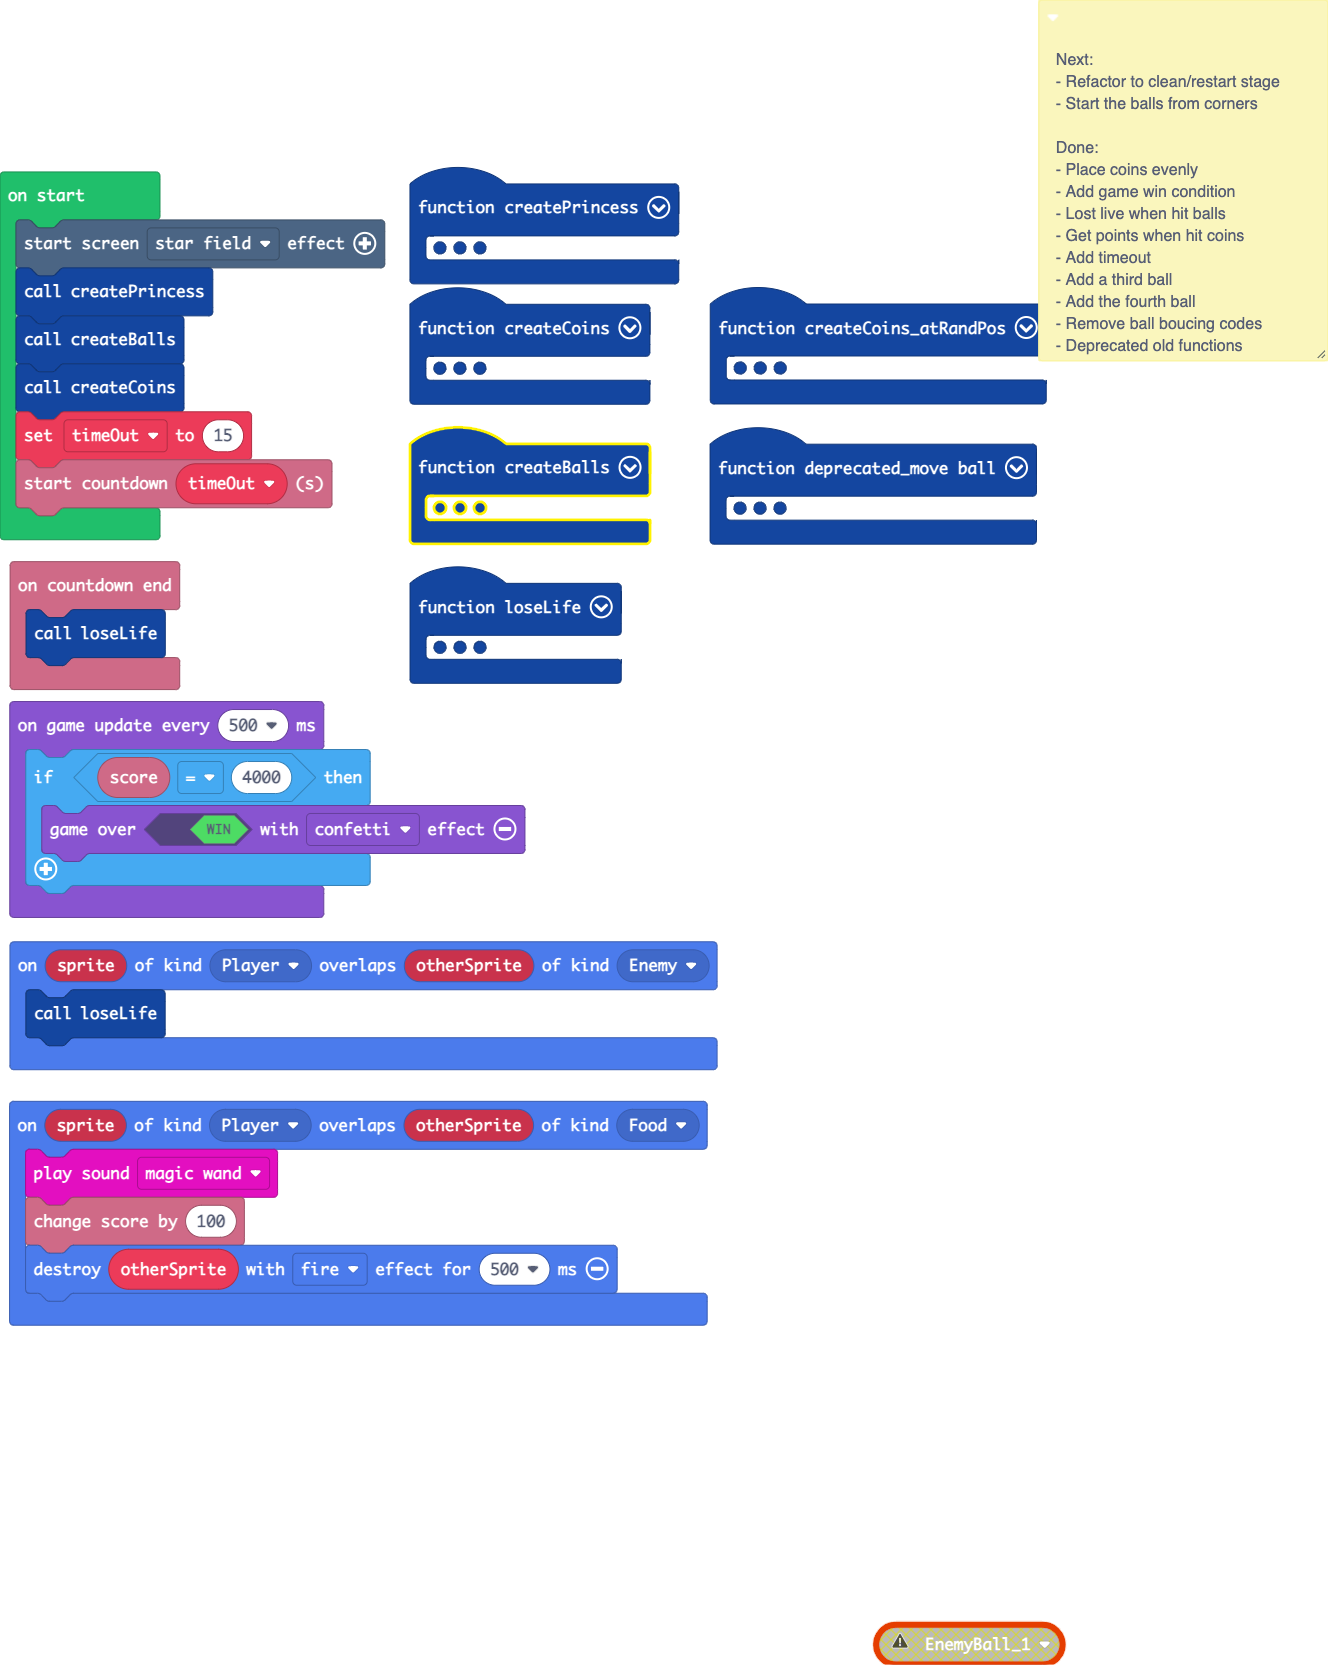
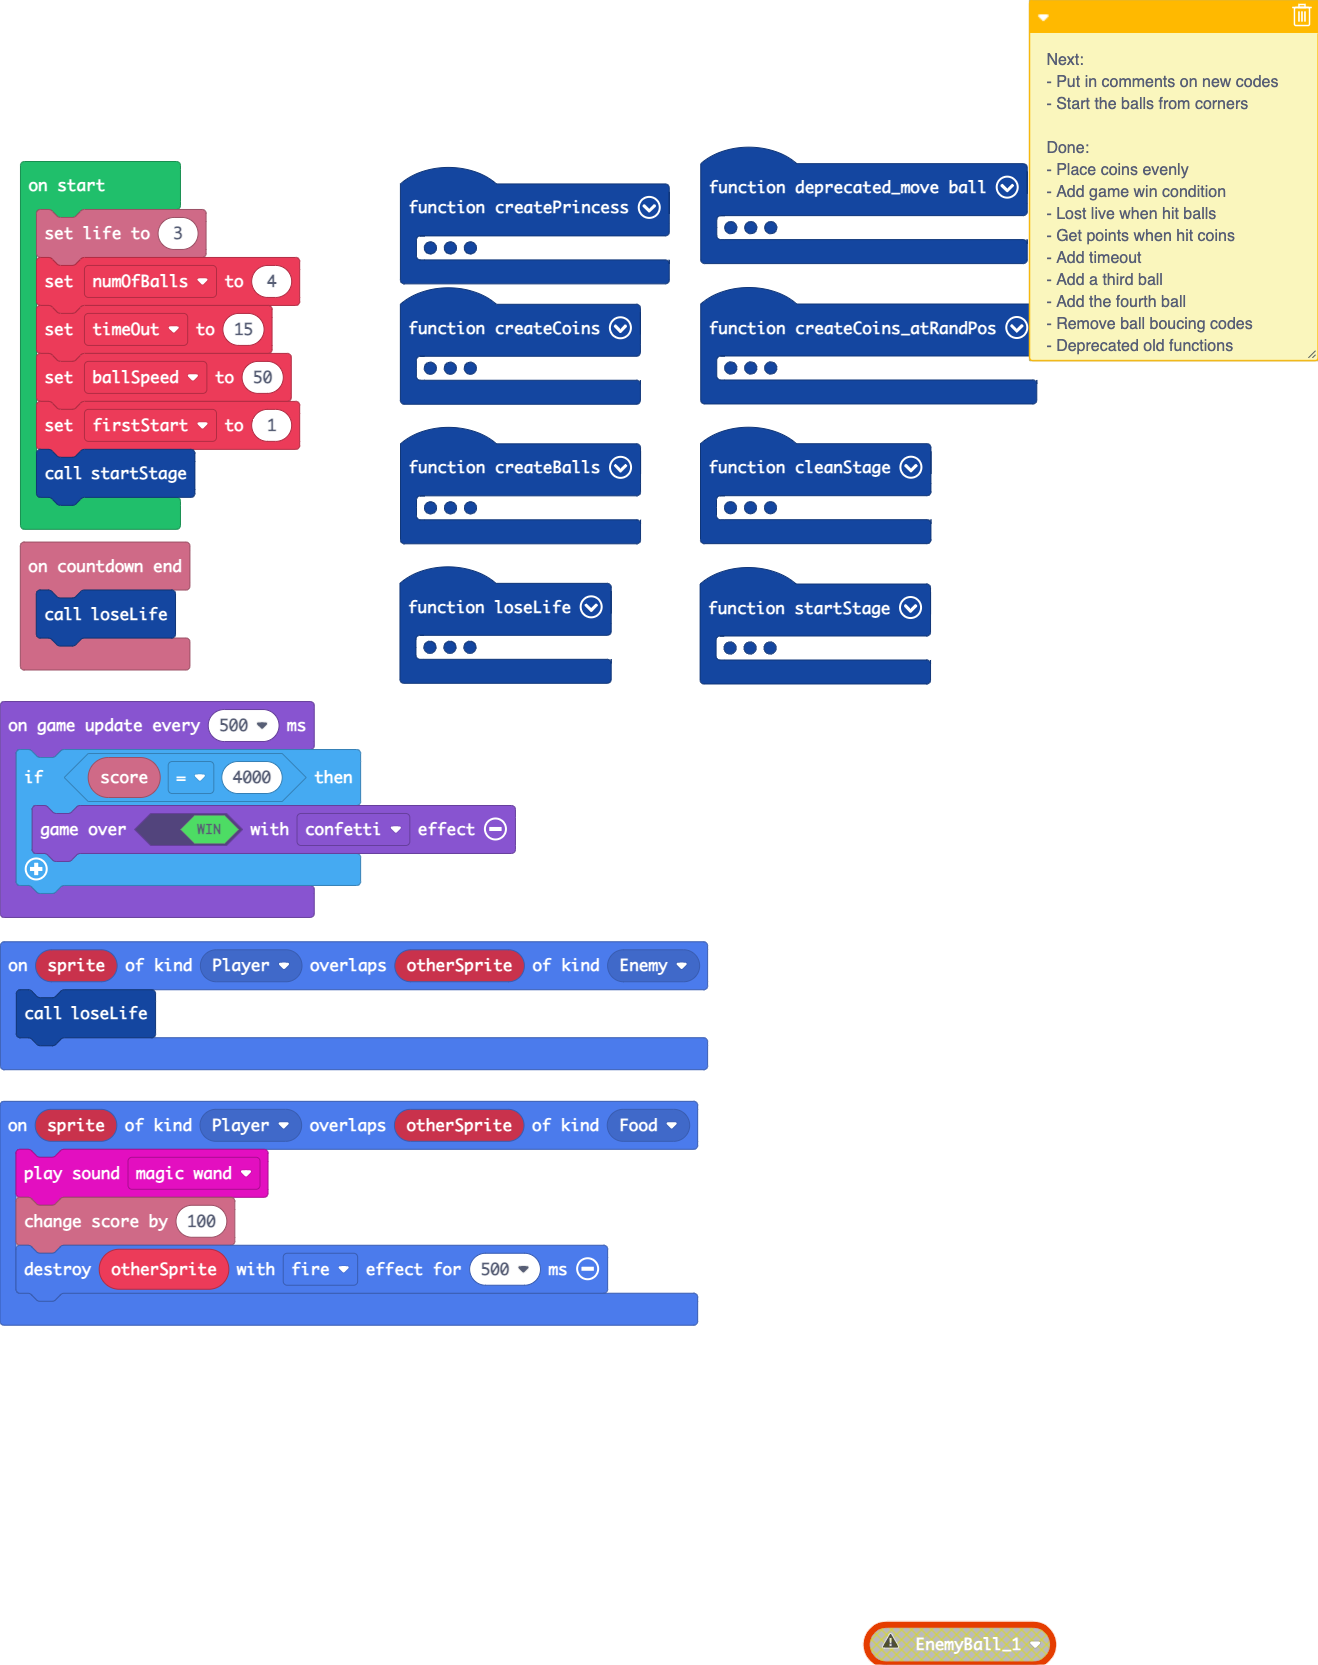
Major refactor for restart stage

diff --git a/images.g.ts b/images.g.ts
@@ -369,132 +369,6 @@ f b b 4 1 f d d f 1 4 b b f
 . . . . . . 4 4 4 4 . . . . . . 
 . . . . . . . . . . . . . . . . 
 `;
-            case "image8":return img`
-. . . . . . . . . . . . . . . . 
-. . . . . . 4 4 4 4 . . . . . . 
-. . . . 4 4 4 5 5 4 4 4 . . . . 
-. . . 3 3 3 3 4 4 4 4 4 4 . . . 
-. . 4 3 3 3 3 2 2 2 1 1 4 4 . . 
-. . 3 3 3 3 3 2 2 2 1 1 5 4 . . 
-. 4 3 3 3 3 2 2 2 2 2 5 5 4 4 . 
-. 4 3 3 3 2 2 2 4 4 4 4 5 4 4 . 
-. 4 4 3 3 2 2 4 4 4 4 4 4 4 4 . 
-. 4 2 3 3 2 2 4 4 4 4 4 4 4 4 . 
-. . 4 2 3 3 2 4 4 4 4 4 2 4 . . 
-. . 4 2 2 3 2 2 4 4 4 2 4 4 . . 
-. . . 4 2 2 2 2 2 2 2 2 4 . . . 
-. . . . 4 4 2 2 2 2 4 4 . . . . 
-. . . . . . 4 4 4 4 . . . . . . 
-. . . . . . . . . . . . . . . . 
-`;
-            case "image9":return img`
-. . . . . . . . . . . . . . . . 
-. . . . . . 4 4 4 4 . . . . . . 
-. . . . 4 4 4 5 5 4 4 4 . . . . 
-. . . 3 3 3 3 4 4 4 4 4 4 . . . 
-. . 4 3 3 3 3 2 2 2 1 1 4 4 . . 
-. . 3 3 3 3 3 2 2 2 1 1 5 4 . . 
-. 4 3 3 3 3 2 2 2 2 2 5 5 4 4 . 
-. 4 3 3 3 2 2 2 4 4 4 4 5 4 4 . 
-. 4 4 3 3 2 2 4 4 4 4 4 4 4 4 . 
-. 4 2 3 3 2 2 4 4 4 4 4 4 4 4 . 
-. . 4 2 3 3 2 4 4 4 4 4 2 4 . . 
-. . 4 2 2 3 2 2 4 4 4 2 4 4 . . 
-. . . 4 2 2 2 2 2 2 2 2 4 . . . 
-. . . . 4 4 2 2 2 2 4 4 . . . . 
-. . . . . . 4 4 4 4 . . . . . . 
-. . . . . . . . . . . . . . . . 
-`;
-            case "image28":return img`
-. . . . . . . . . . . . . . . . 
-. . . . . . 4 4 4 4 . . . . . . 
-. . . . 4 4 4 5 5 4 4 4 . . . . 
-. . . 3 3 3 3 4 4 4 4 4 4 . . . 
-. . 4 3 3 3 3 2 2 2 1 1 4 4 . . 
-. . 3 3 3 3 3 2 2 2 1 1 5 4 . . 
-. 4 3 3 3 3 2 2 2 2 2 5 5 4 4 . 
-. 4 3 3 3 2 2 2 4 4 4 4 5 4 4 . 
-. 4 4 3 3 2 2 4 4 4 4 4 4 4 4 . 
-. 4 2 3 3 2 2 4 4 4 4 4 4 4 4 . 
-. . 4 2 3 3 2 4 4 4 4 4 2 4 . . 
-. . 4 2 2 3 2 2 4 4 4 2 4 4 . . 
-. . . 4 2 2 2 2 2 2 2 2 4 . . . 
-. . . . 4 4 2 2 2 2 4 4 . . . . 
-. . . . . . 4 4 4 4 . . . . . . 
-. . . . . . . . . . . . . . . . 
-`;
-            case "image29":return img`
-. . . . . . . . . . . . . . . . 
-. . . . . . 4 4 4 4 . . . . . . 
-. . . . 4 4 4 5 5 4 4 4 . . . . 
-. . . 3 3 3 3 4 4 4 4 4 4 . . . 
-. . 4 3 3 3 3 2 2 2 1 1 4 4 . . 
-. . 3 3 3 3 3 2 2 2 1 1 5 4 . . 
-. 4 3 3 3 3 2 2 2 2 2 5 5 4 4 . 
-. 4 3 3 3 2 2 2 4 4 4 4 5 4 4 . 
-. 4 4 3 3 2 2 4 4 4 4 4 4 4 4 . 
-. 4 2 3 3 2 2 4 4 4 4 4 4 4 4 . 
-. . 4 2 3 3 2 4 4 4 4 4 2 4 . . 
-. . 4 2 2 3 2 2 4 4 4 2 4 4 . . 
-. . . 4 2 2 2 2 2 2 2 2 4 . . . 
-. . . . 4 4 2 2 2 2 4 4 . . . . 
-. . . . . . 4 4 4 4 . . . . . . 
-. . . . . . . . . . . . . . . . 
-`;
-            case "image30":return img`
-. . . . . . . . . . . . . . . . 
-. . . . . . 4 4 4 4 . . . . . . 
-. . . . 4 4 4 5 5 4 4 4 . . . . 
-. . . 3 3 3 3 4 4 4 4 4 4 . . . 
-. . 4 3 3 3 3 2 2 2 1 1 4 4 . . 
-. . 3 3 3 3 3 2 2 2 1 1 5 4 . . 
-. 4 3 3 3 3 2 2 2 2 2 5 5 4 4 . 
-. 4 3 3 3 2 2 2 4 4 4 4 5 4 4 . 
-. 4 4 3 3 2 2 4 4 4 4 4 4 4 4 . 
-. 4 2 3 3 2 2 4 4 4 4 4 4 4 4 . 
-. . 4 2 3 3 2 4 4 4 4 4 2 4 . . 
-. . 4 2 2 3 2 2 4 4 4 2 4 4 . . 
-. . . 4 2 2 2 2 2 2 2 2 4 . . . 
-. . . . 4 4 2 2 2 2 4 4 . . . . 
-. . . . . . 4 4 4 4 . . . . . . 
-. . . . . . . . . . . . . . . . 
-`;
-            case "image31":return img`
-. . . . . . . . . . . . . . . . 
-. . . . . . 4 4 4 4 . . . . . . 
-. . . . 4 4 4 5 5 4 4 4 . . . . 
-. . . 3 3 3 3 4 4 4 4 4 4 . . . 
-. . 4 3 3 3 3 2 2 2 1 1 4 4 . . 
-. . 3 3 3 3 3 2 2 2 1 1 5 4 . . 
-. 4 3 3 3 3 2 2 2 2 2 5 5 4 4 . 
-. 4 3 3 3 2 2 2 4 4 4 4 5 4 4 . 
-. 4 4 3 3 2 2 4 4 4 4 4 4 4 4 . 
-. 4 2 3 3 2 2 4 4 4 4 4 4 4 4 . 
-. . 4 2 3 3 2 4 4 4 4 4 2 4 . . 
-. . 4 2 2 3 2 2 4 4 4 2 4 4 . . 
-. . . 4 2 2 2 2 2 2 2 2 4 . . . 
-. . . . 4 4 2 2 2 2 4 4 . . . . 
-. . . . . . 4 4 4 4 . . . . . . 
-. . . . . . . . . . . . . . . . 
-`;
-            case "image32":return img`
-. . . . . . . . . . . . . . . . 
-. . . . . . 4 4 4 4 . . . . . . 
-. . . . 4 4 4 5 5 4 4 4 . . . . 
-. . . 3 3 3 3 4 4 4 4 4 4 . . . 
-. . 4 3 3 3 3 2 2 2 1 1 4 4 . . 
-. . 3 3 3 3 3 2 2 2 1 1 5 4 . . 
-. 4 3 3 3 3 2 2 2 2 2 5 5 4 4 . 
-. 4 3 3 3 2 2 2 4 4 4 4 5 4 4 . 
-. 4 4 3 3 2 2 4 4 4 4 4 4 4 4 . 
-. 4 2 3 3 2 2 4 4 4 4 4 4 4 4 . 
-. . 4 2 3 3 2 4 4 4 4 4 2 4 . . 
-. . 4 2 2 3 2 2 4 4 4 2 4 4 . . 
-. . . 4 2 2 2 2 2 2 2 2 4 . . . 
-. . . . 4 4 2 2 2 2 4 4 . . . . 
-. . . . . . 4 4 4 4 . . . . . . 
-. . . . . . . . . . . . . . . . 
-`;
         }
         return null;
     })

diff --git a/main.ts b/main.ts
@@ -20,18 +20,23 @@ function createPrincess () {
     Princess.setFlag(SpriteFlag.StayInScreen, true)
     Princess.setPosition(80, 20)
     controller.moveSprite(Princess)
-    info.setLife(3)
+}
+function startStage () {
+    if (firstStart == 1) {
+        effects.starField.startScreenEffect()
+        createCoins()
+        firstStart = 0
+    }
+    createPrincess()
+    createBalls()
+    info.startCountdown(timeOut)
 }
 function loseLife () {
     scene.cameraShake(4, 500)
     music.powerDown.play()
     info.changeLifeBy(-1)
-    Princess.setPosition(80, 20)
-    for (let index = 0; index <= EnemyBalls.length - 1; index++) {
-        EnemyBalls[index].destroy()
-    }
-    createBalls()
-    info.startCountdown(timeOut)
+    cleanStage()
+    startStage()
 }
 info.onCountdownEnd(function () {
     loseLife()
@@ -68,7 +73,6 @@ function deprecated_move (ball: Sprite) {
 }
 function createBalls () {
     EnemyBalls = []
-    numOfBalls = 4
     for (let index = 0; index < numOfBalls; index++) {
         EnemyBall = sprites.create(img`
             . . . . . . . . . . . . . . . . 
@@ -90,7 +94,7 @@ function createBalls () {
             `, SpriteKind.Enemy)
         EnemyBall.x = randint(10, scene.screenWidth() - 10)
         EnemyBall.y = randint(40, scene.screenHeight() - 10)
-        EnemyBall.setVelocity(50, 50)
+        EnemyBall.setVelocity(ballSpeed, ballSpeed)
         EnemyBall.setBounceOnWall(true)
         EnemyBalls.push(EnemyBall)
     }
@@ -154,13 +158,19 @@ sprites.onOverlap(SpriteKind.Player, SpriteKind.Food, function (sprite, otherSpr
     info.changeScoreBy(100)
     otherSprite.destroy(effects.fire, 500)
 })
+function cleanStage () {
+    Princess.destroy()
+    for (let index = 0; index <= EnemyBalls.length - 1; index++) {
+        EnemyBalls[index].destroy()
+    }
+}
 sprites.onOverlap(SpriteKind.Player, SpriteKind.Enemy, function (sprite, otherSprite) {
     loseLife()
 })
 /**
  * Next:
  * 
- * - Refactor to clean/restart stage
+ * - Put in comments on new codes
  * 
  * - Start the balls from corners
  * 
@@ -185,6 +195,8 @@ sprites.onOverlap(SpriteKind.Player, SpriteKind.Enemy, function (sprite, otherSp
  * - Deprecated old functions
  * 
  * - Refactor ball creation codes
+ * 
+ * - Refactor to clean/restart stage
  */
 function createCoins_atRandPos () {
     for (let index = 0; index < 10; index++) {
@@ -204,16 +216,18 @@ function createCoins_atRandPos () {
 }
 let GoldCoin: Sprite = null
 let EnemyBall: Sprite = null
-let numOfBalls = 0
 let EnemyBalls: Sprite[] = []
 let Princess: Sprite = null
+let firstStart = 0
+let ballSpeed = 0
 let timeOut = 0
-effects.starField.startScreenEffect()
-createPrincess()
-createBalls()
-createCoins()
+let numOfBalls = 0
+info.setLife(3)
+numOfBalls = 4
 timeOut = 15
-info.startCountdown(timeOut)
+ballSpeed = 50
+firstStart = 1
+startStage()
 game.onUpdateInterval(500, function () {
     if (info.score() == 4000) {
         game.over(true, effects.confetti)
